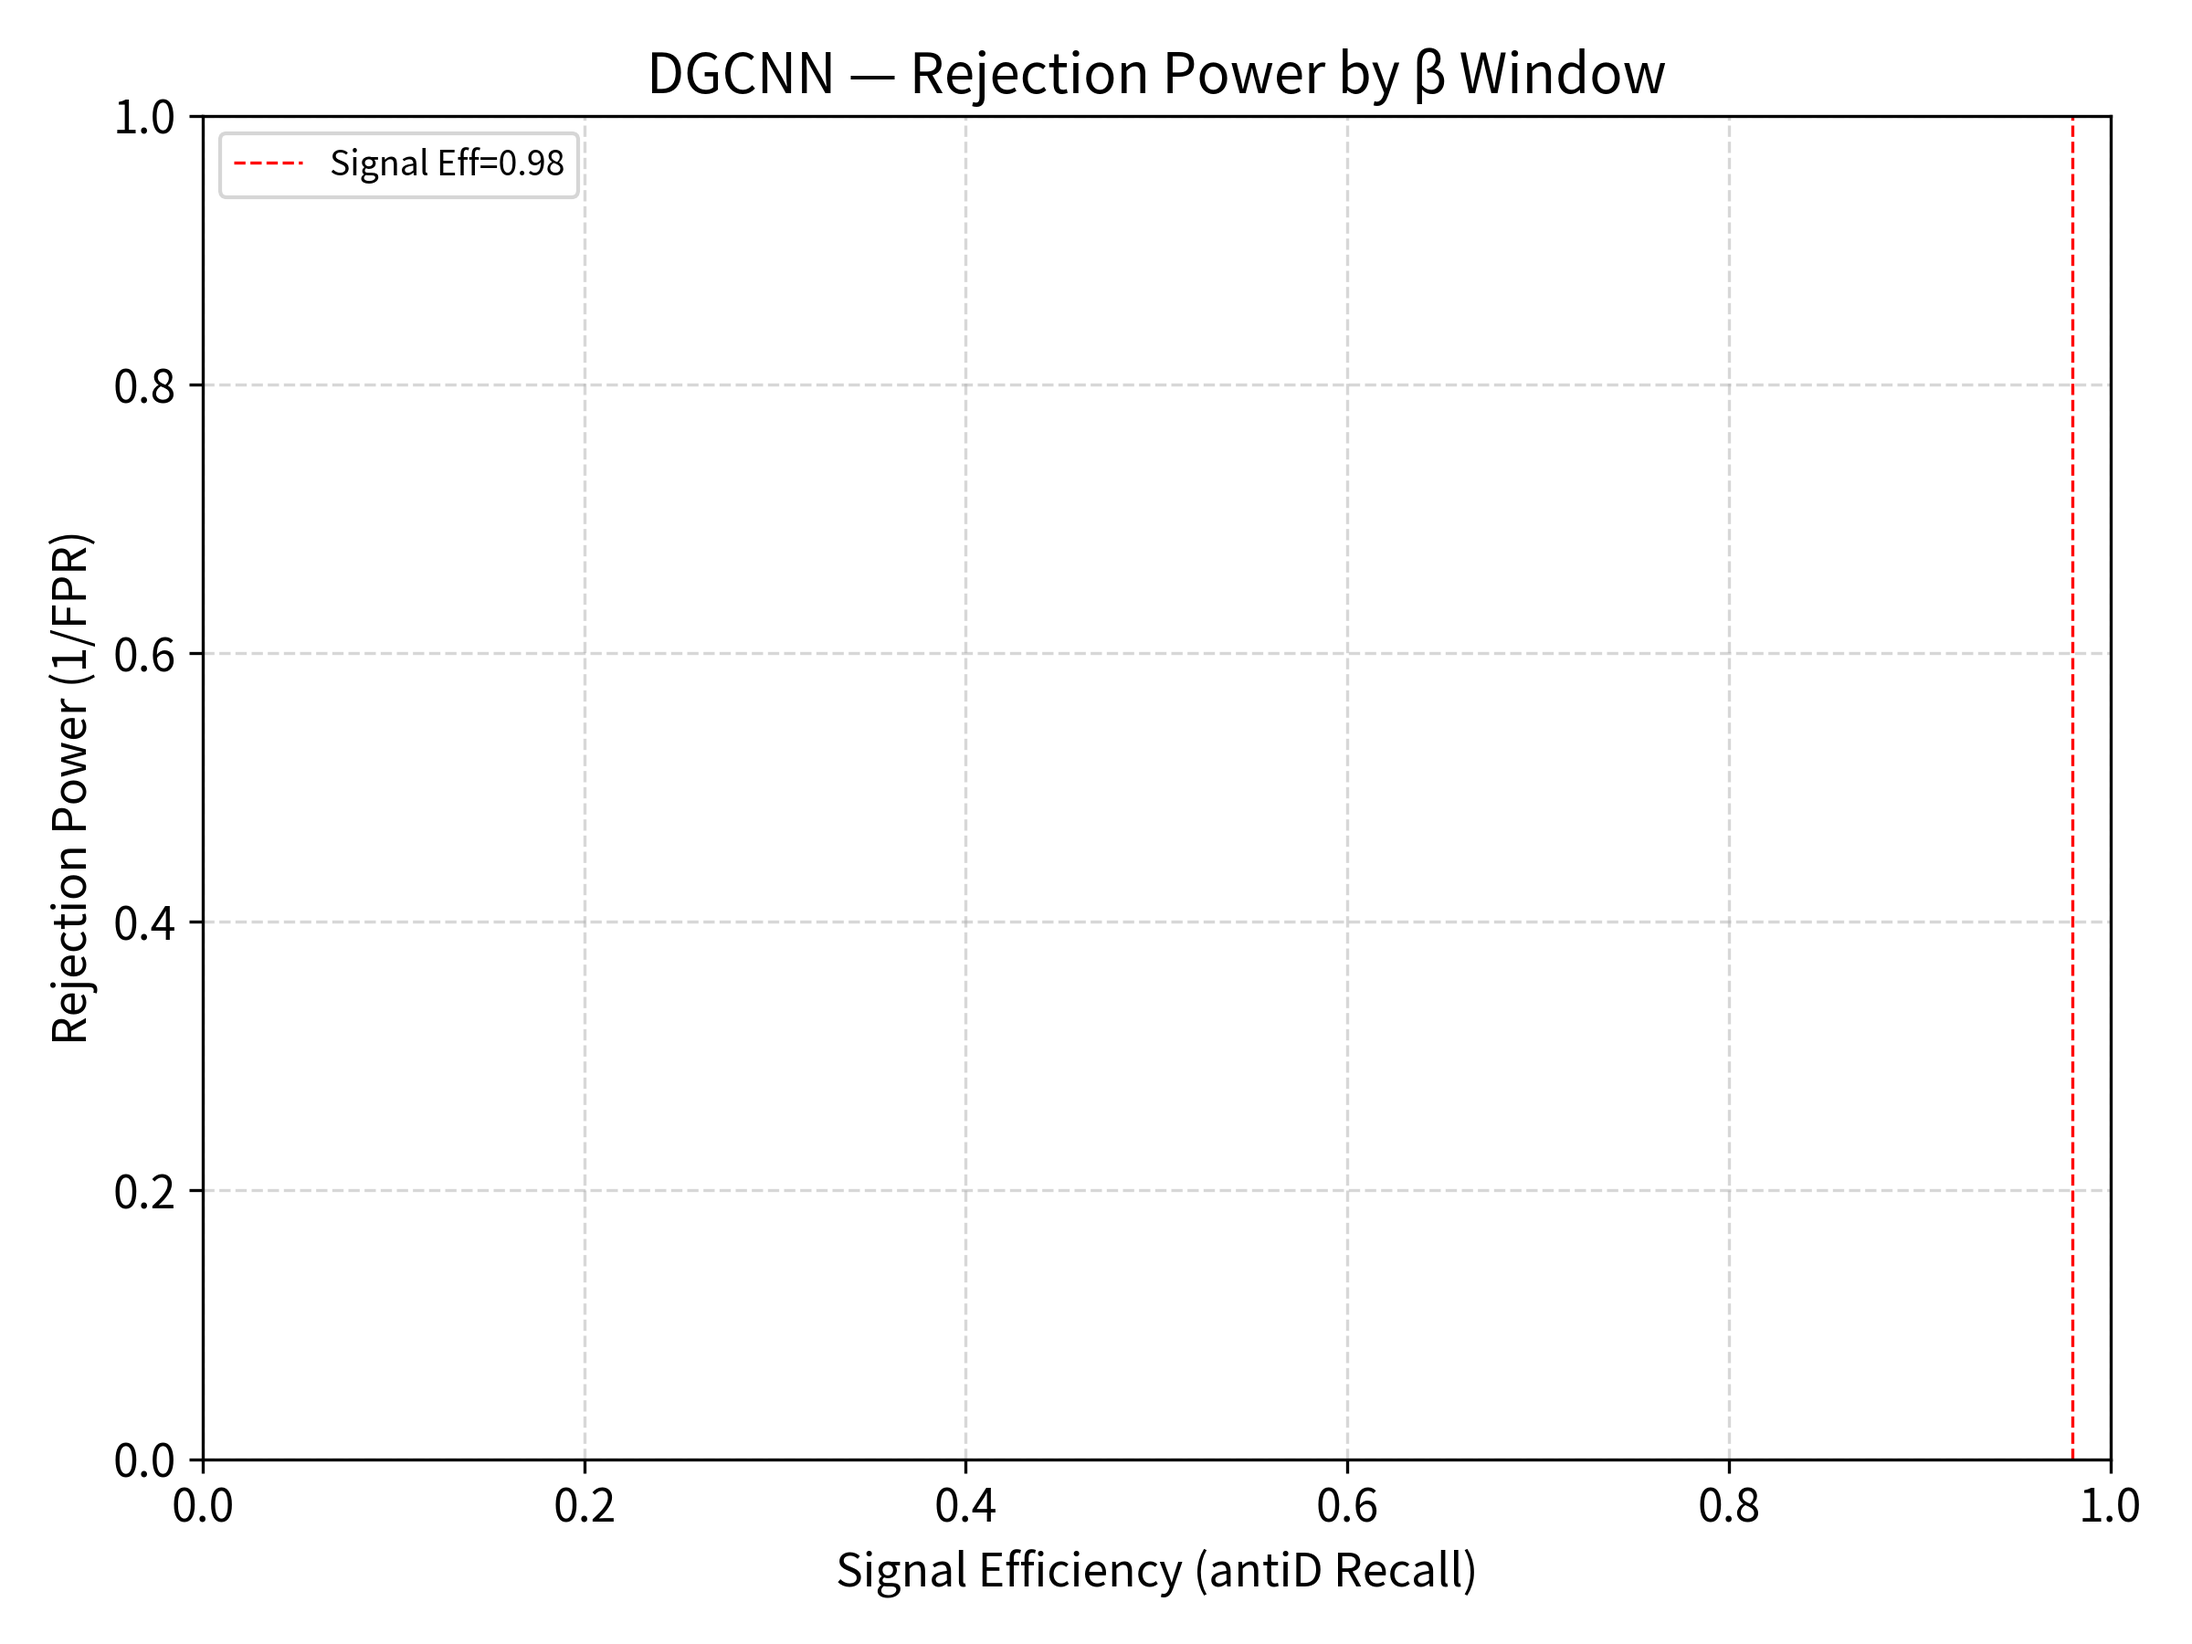
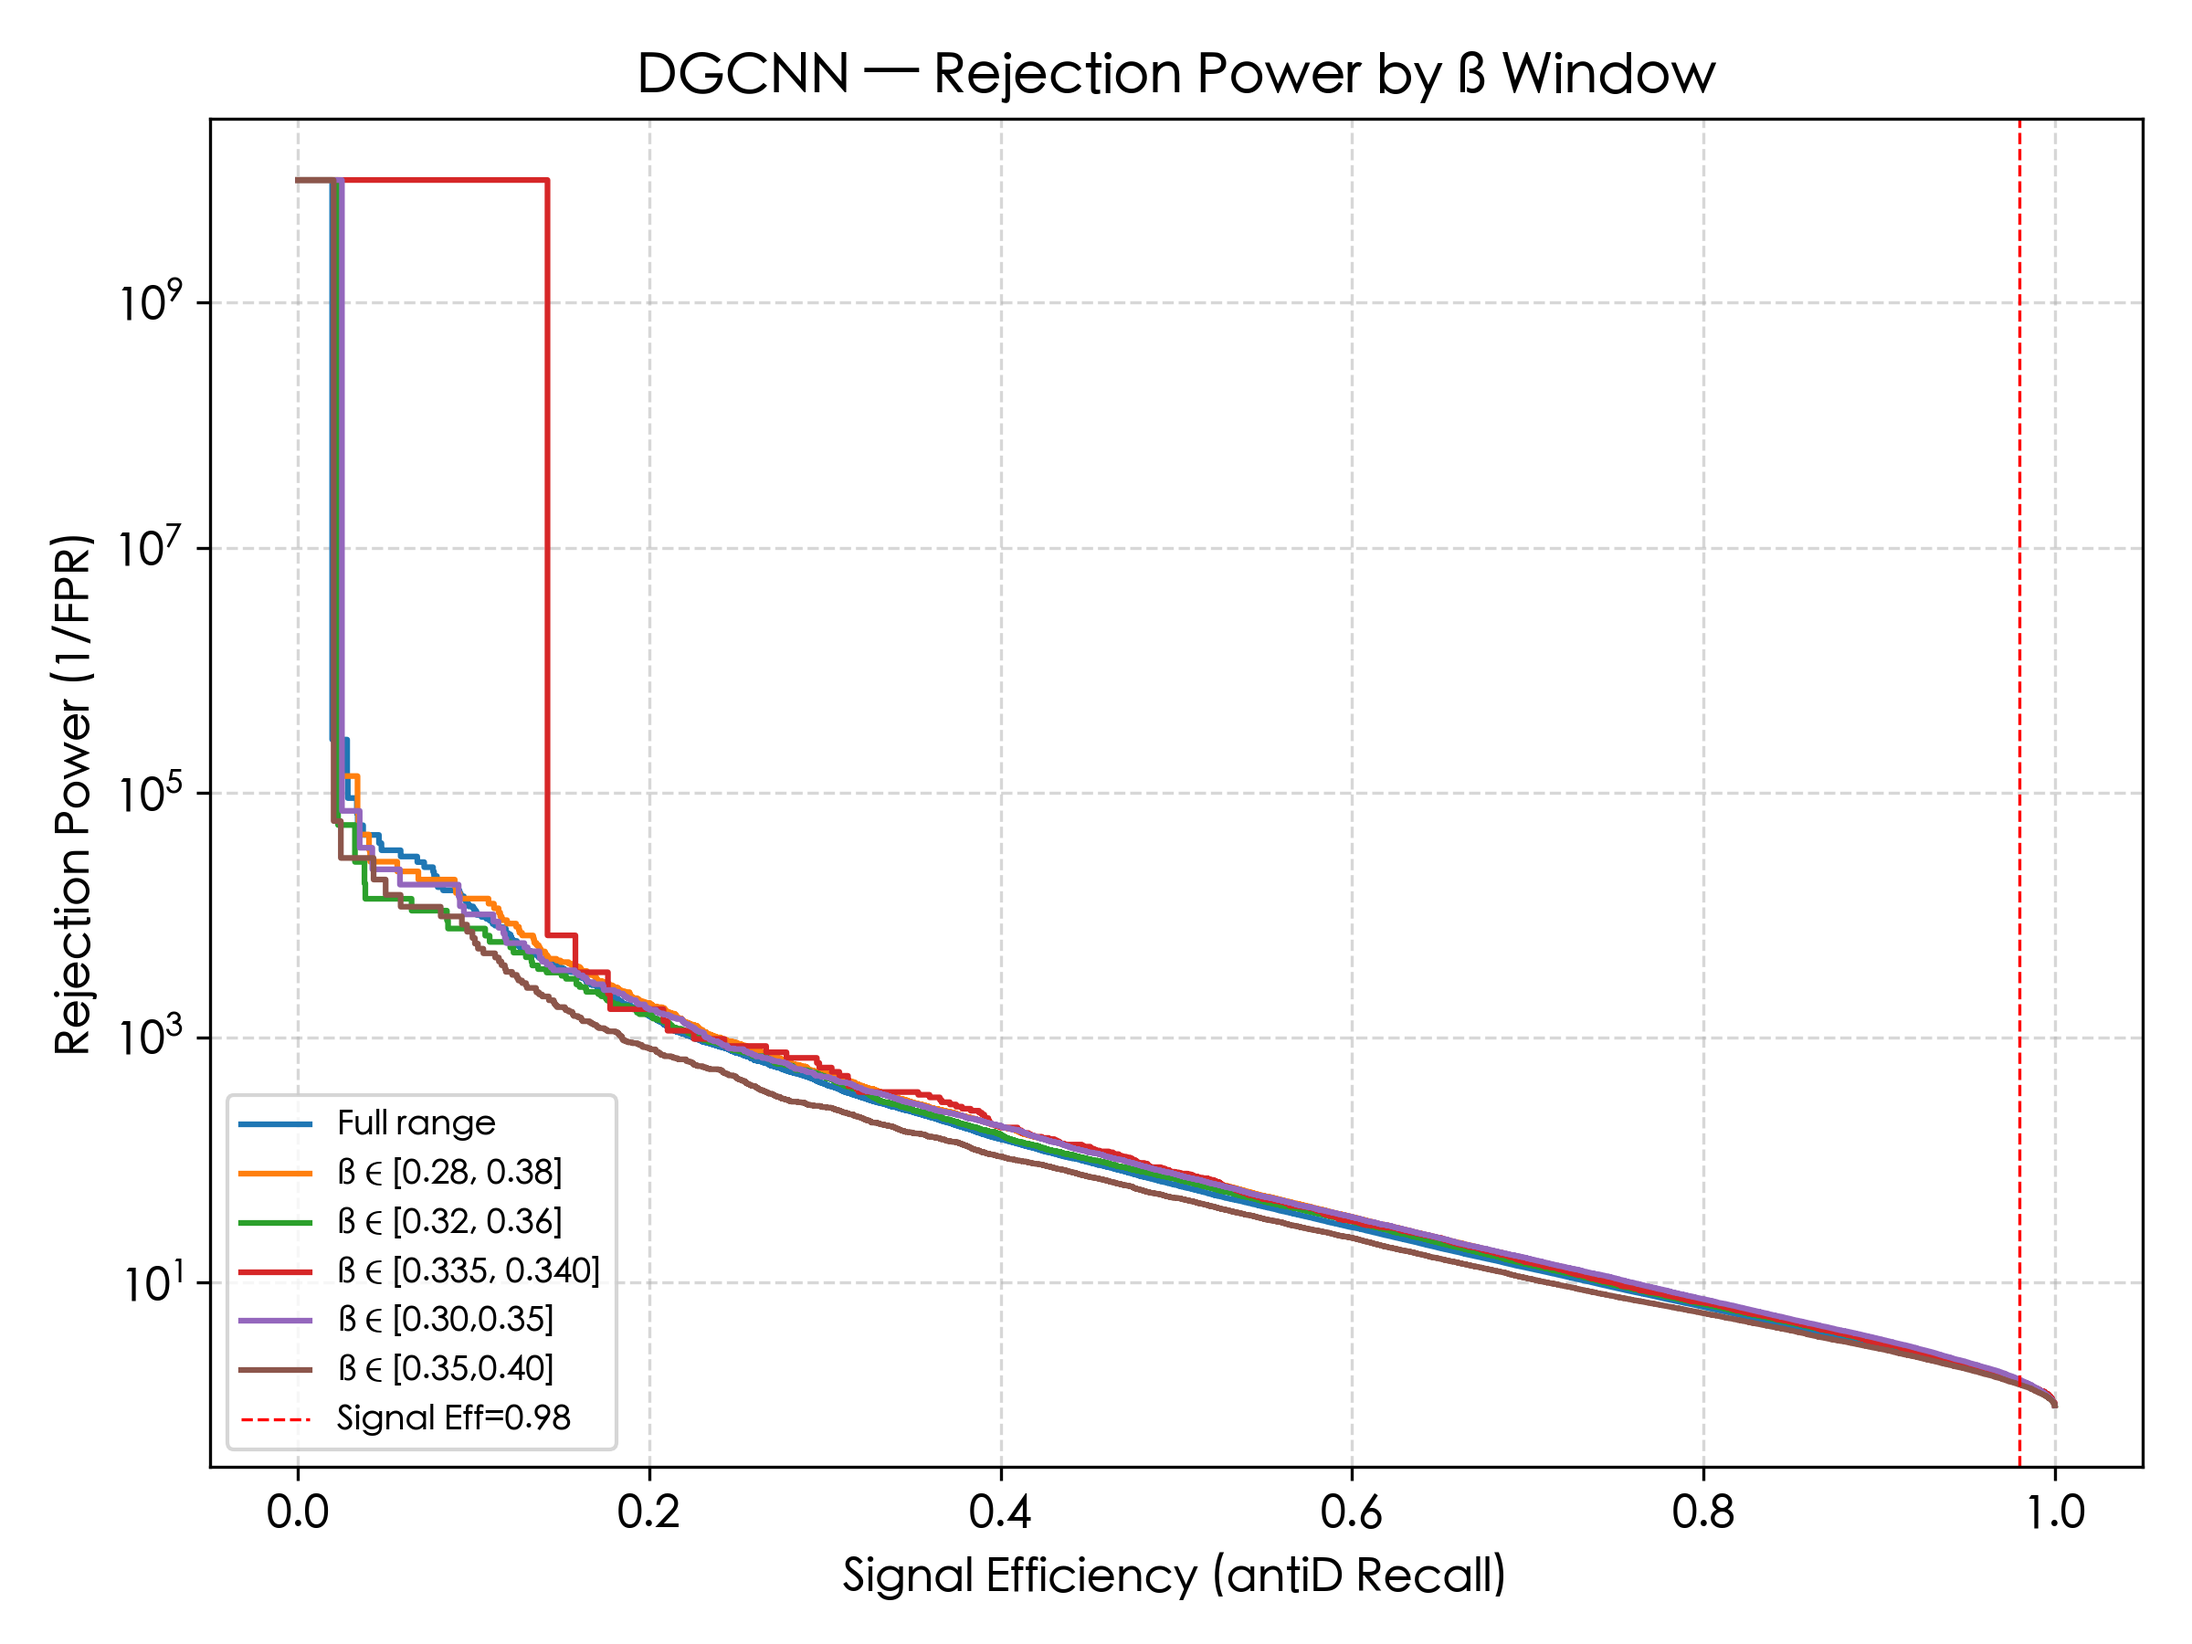
.

diff --git a/GAPS_Project/src/data_parse/graph_builder.py b/GAPS_Project/src/data_parse/graph_builder.py
@@ -2,6 +2,7 @@
 
 import numpy as np
 import torch
+from scipy.spatial import cKDTree
 from torch_geometric.data import Data
 from torch_geometric.nn import knn_graph
 
@@ -33,10 +34,12 @@ class GraphBuilder:
     """
     将单个event的hit信息转换成PyG的Data对象
     注：PyG（PyTorch Geometric），是基于PyTorch的图神经网络（GNN）库，专门用来处理Graph（图结构数据），而不是普通的Image（图像）、Sequence（序列）、Table（表格）
-
     Args:
-        k         : int    k近邻边数，每个节点连接，最近的8个节点
-        normalize : bool   是否对节点特征归一化（默认True）
+      k         : int    k近邻边数，每个节点连接最近的k个节点
+      normalize : bool   是否对节点特征归一化（默认True）
+      use_beta  : bool   节点特征是否包含beta（True→7维，False→6维）
+    节点特征：[fX, fY, fZ, energy, time, beta, dE/dx]，共7维
+    图级属性：beta（原始未归一化，用于β窗口分析）
     """
     def __init__(self, k: int = 8, normalize: bool = True, use_beta: bool = True):
         self.k = k
@@ -62,11 +65,21 @@ class GraphBuilder:
         # ── 3. 提取原始beta（图级属性，不参与归一化）────
         beta_val = float(event.get('beta', 0.0))
 
-        # —— 4. 构建节点特征矩阵 [N, 5] 或 [N, 6] ————————————————
+        # ── 4. 计算 dE/dx（每个hit能量 / k近邻平均距离）──
+        # Bethe-Bloch: dE/dx ∝ 1/β²，antiD β更低 → dE/dx更大，是关键判别量
+        if N > 1:
+            tree = cKDTree(positions)
+            k_query = min(self.k + 1, N)    # 防止N < k+1
+            dists, _ = tree.query(positions, k=k_query)
+            mean_dists = dists[:, 1:].mean(axis=1)  # 去掉自身（距离=0）
+            dEdx = (energies / (mean_dists + 1e-6)).astype(np.float32)
+        else:
+            dEdx = np.zeros(N, dtype=np.float32)
+
+        # ── 5. 构建节点特征矩阵 ───────────────────────
         if self.use_beta:
             """
-            特征：[fX, fY, fZ, energy, time, beta] beta是事件级标量，广播到每个节点
-            x.shape = [N, 6]
+            # [N, 7]：[fX, fY, fZ, energy, time, beta, dE/dx]
             """
             beta_col = np.full(N, beta_val, dtype=np.float32)
             x = np.stack([
@@ -75,12 +88,12 @@ class GraphBuilder:
                 positions[:, 2],    # fZ
                 energies,           # energy
                 times,              # time
-                beta_col            # beta (事件级速度，广播至每个节点)
+                beta_col,           # beta (事件级速度，广播至每个节点)
+                dEdx,               # dE/dx（每hit能量损失率，关键判别量）
             ], axis=1).astype(np.float32)
         else:
             """
-            特征：[fX, fY, fZ, energy, time]
-            x.shape = [N, 5]
+            # [N, 6]：[fX, fY, fZ, energy, time, dE/dx]
             """
             x = np.stack([
                 positions[:, 0],    # fX
@@ -88,12 +101,13 @@ class GraphBuilder:
                 positions[:, 2],    # fZ
                 energies,           # energy
                 times,              # time
+                dEdx,               # dE/dx
             ], axis=1).astype(np.float32)
 
         if self.normalize:
             x = self._normalize(x)
 
-        #  —— 5. 构建边（k近邻边，基于空间距离）—————————————
+        #  —— 6. 构建边（k近邻边，基于空间距离）—————————————
         pos_tensor = torch.tensor(positions, dtype=torch.float32)
         edge_index = knn_graph(pos_tensor, k=self.k, loop=False)
 

diff --git a/GAPS_Project/src/scripts/train.py b/GAPS_Project/src/scripts/train.py
@@ -44,7 +44,7 @@ def get_model(name: str):
     elif name == 'GravNet':
         return GravNetClassifier(in_channels=6, hidden_dim=64)
     elif name == 'DGCNN':
-        return DGCNNClassifier(in_channels=6, hidden_dim=64, k=8)
+        return DGCNNClassifier(in_channels=7, hidden_dim=64, k=8)
     else:
         raise ValueError(f'Unknown model: {name}')
 
@@ -54,7 +54,7 @@ def train():
     split_dir = PROJECT_ROOT / 'dataset' / 'split'
     print('加载数据集...')
     train_loader, val_loader, test_loader = make_data_loaders_from_split(split_dir=split_dir, batch_size=BATCH_SIZE,
-                                                                         lazy=LAZY_LOAD)
+                                                                         lazy=LAZY_LOAD, use_beta=True)
     print(f"train batches: {len(train_loader)}")
     print(f"val   batches: {len(val_loader)}")
     print(f"test  batches: {len(test_loader)}")

diff --git a/GAPS_Project/src/scripts/evaluate.py b/GAPS_Project/src/scripts/evaluate.py
@@ -430,8 +430,8 @@ def analyze_beta_window():
 
 
 if __name__ == '__main__':
-   evaluate()               # 完整推理+评估（第一次运行）
+   # evaluate()               # 完整推理+评估（第一次运行）
     # analyze_only()        # 只输出各效率下的Rejection表
     # analyze_threshold()   # 阈值优化分析（无需重新推理）
-   # analyze_beta_window()    # β速度窗口分析（无需重新推理）
+   analyze_beta_window()    # β速度窗口分析（无需重新推理）
 
